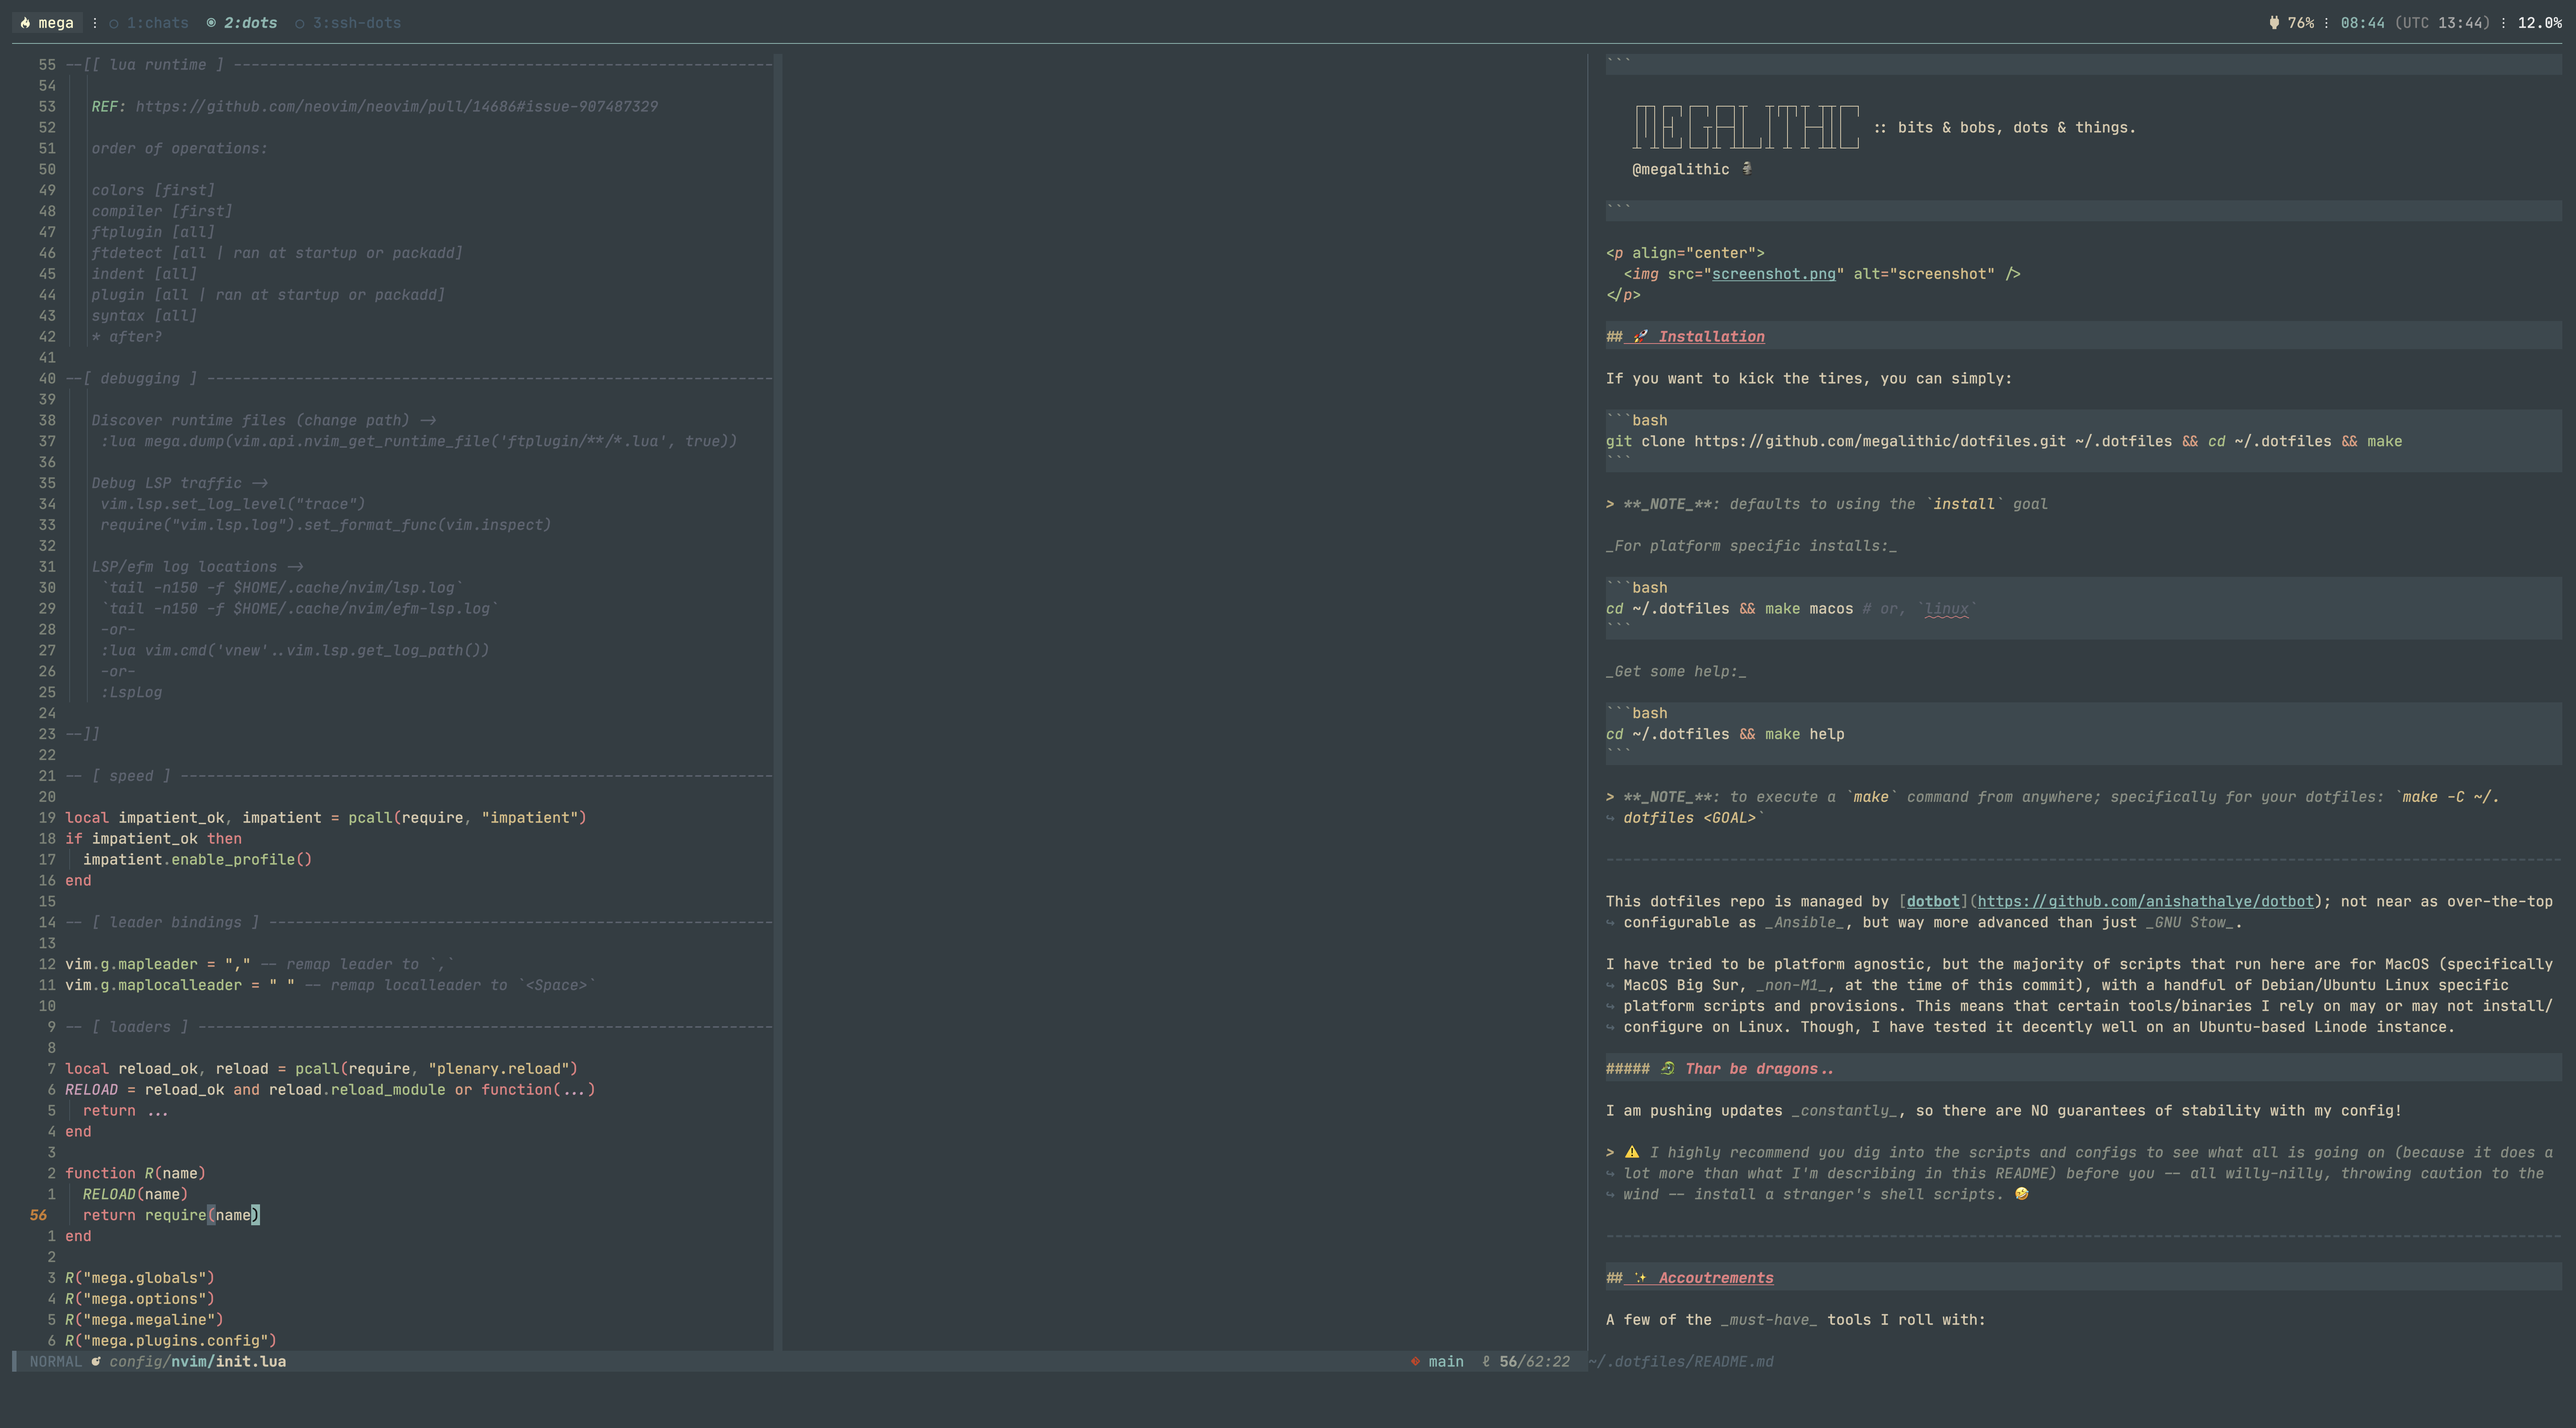
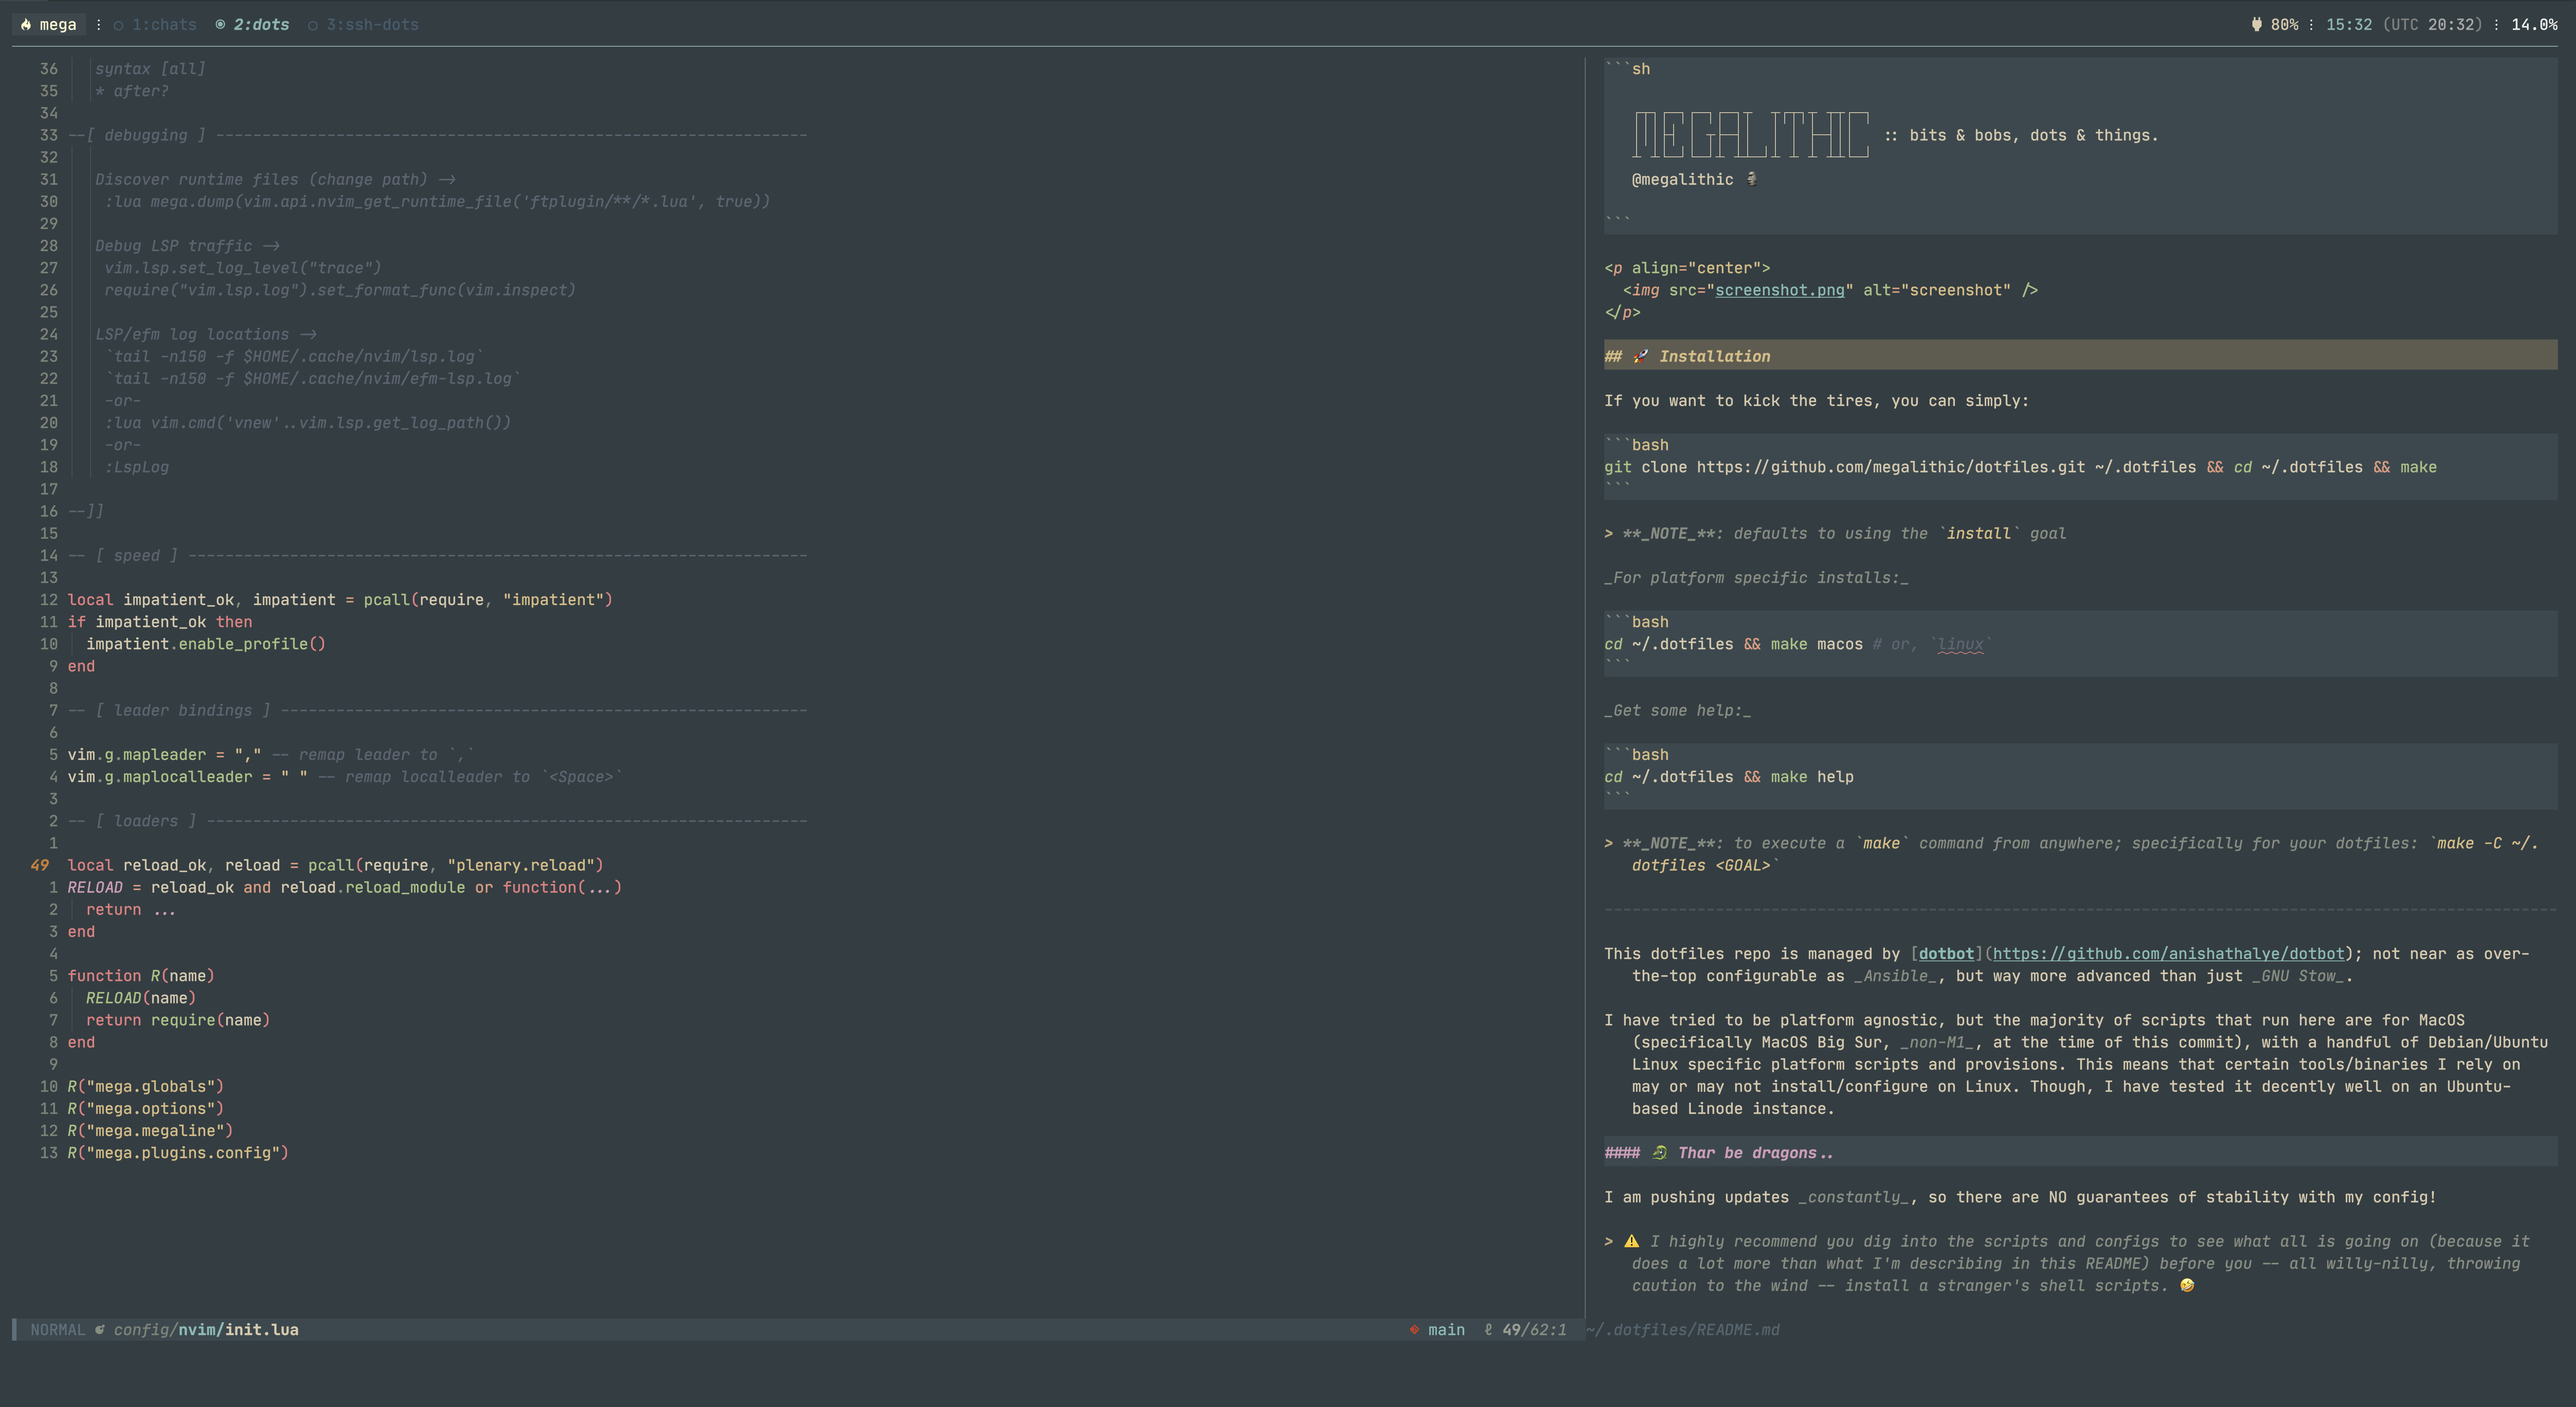
chore(docs): updates readme and screenshot

diff --git a/README.md b/README.md
@@ -1,4 +1,4 @@
-```
+```sh
 
    ┌┬┐┌─┐┌─┐┌─┐┬  ┬┌┬┐┬ ┬┬┌─┐
    │││├┤ │ ┬├─┤│  │ │ ├─┤││   :: bits & bobs, dots & things.
